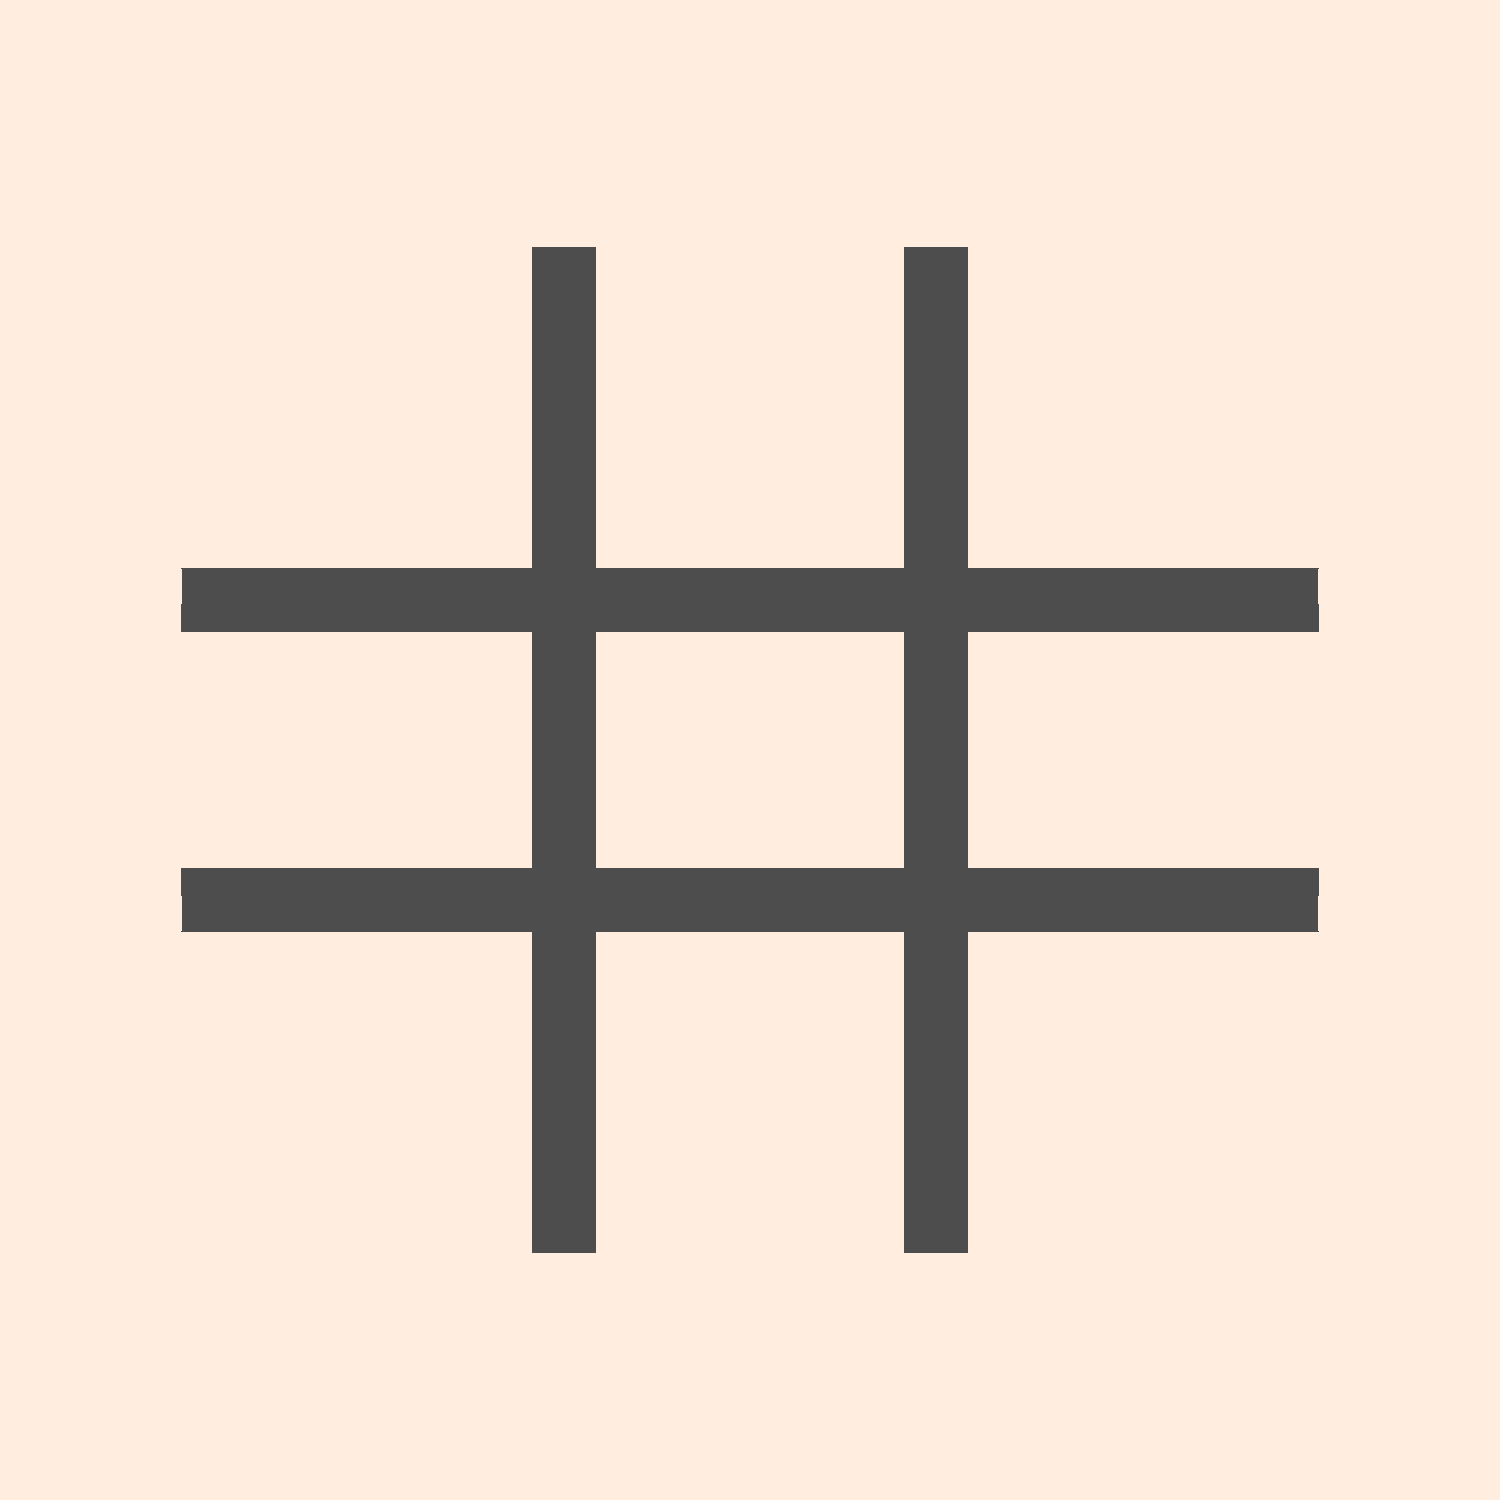
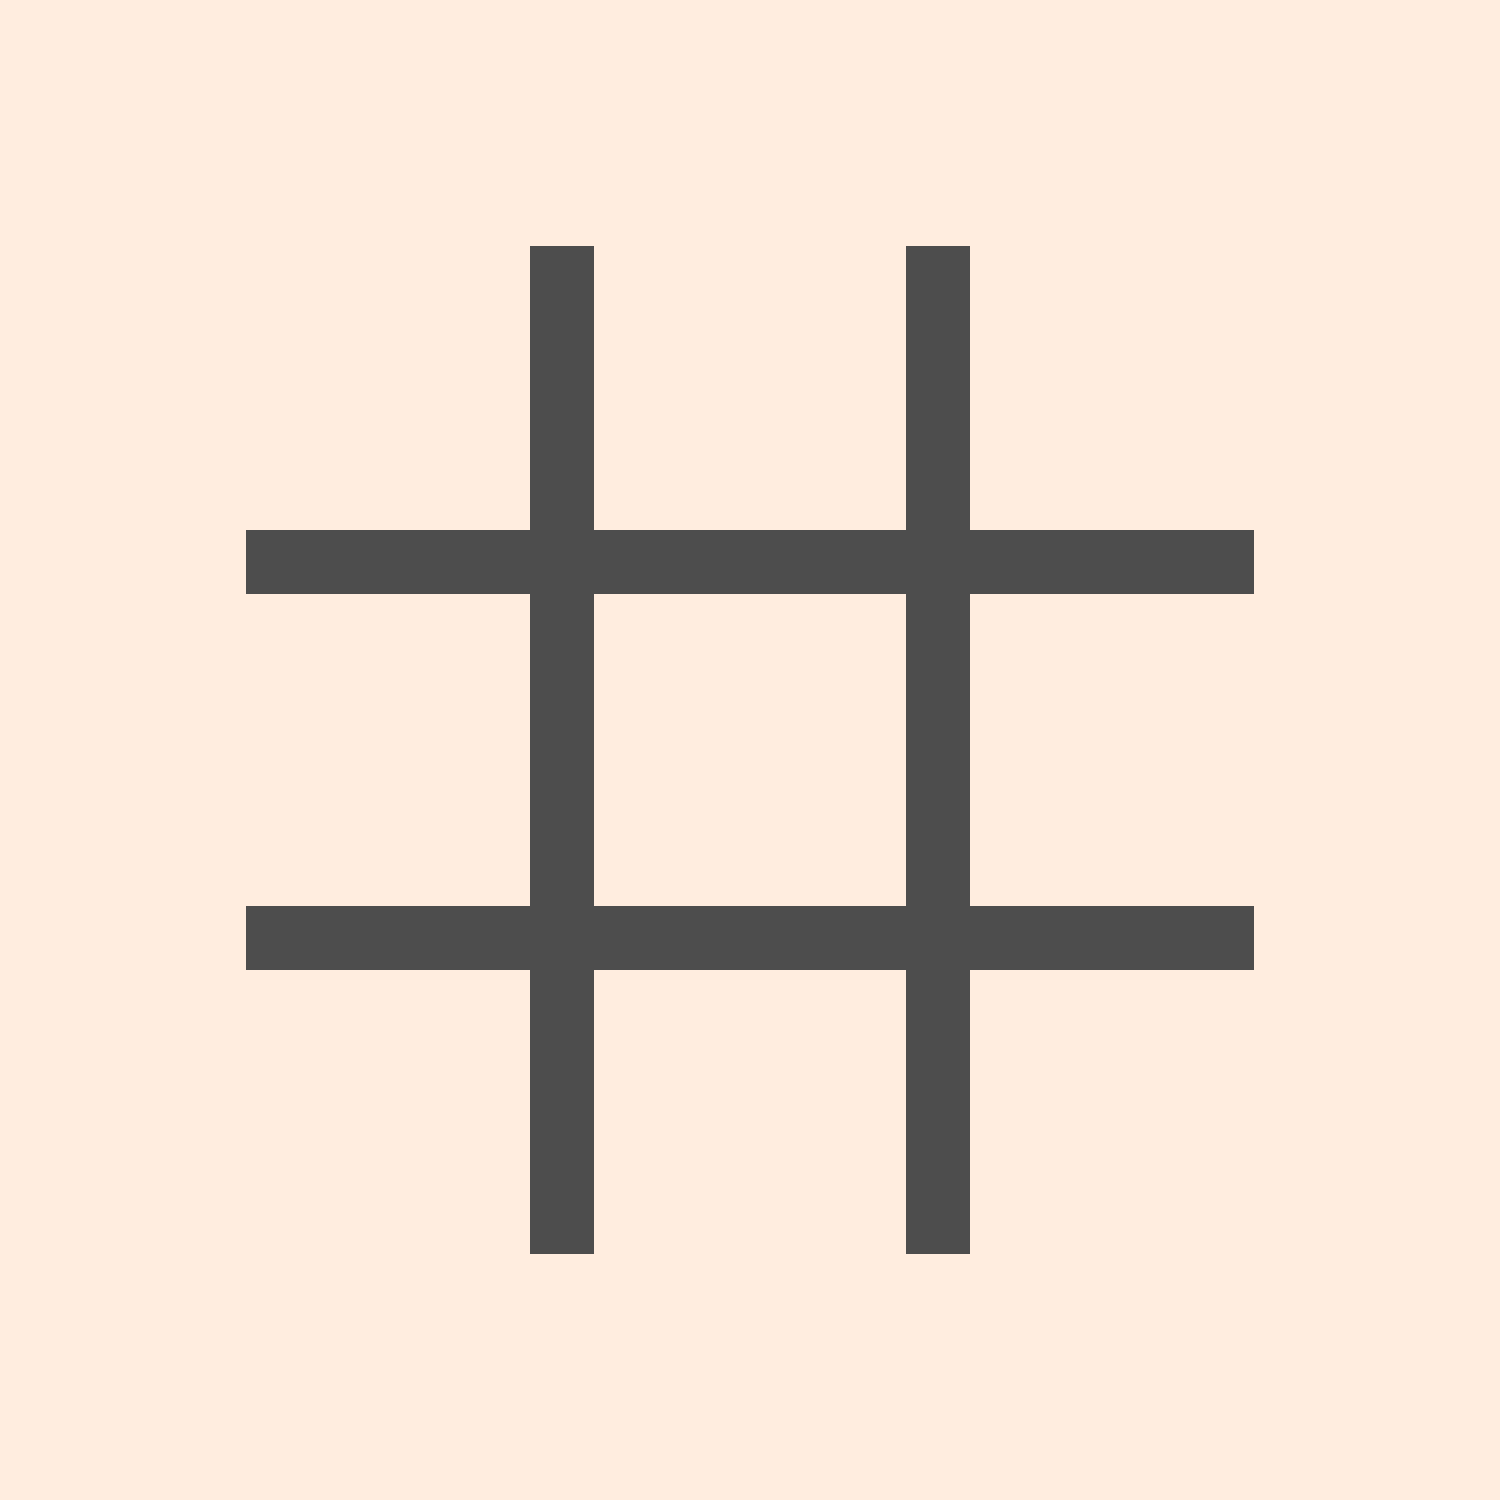
c

diff --git a/Assets/Script/Validation.cs b/Assets/Script/Validation.cs
@@ -33,37 +33,37 @@ public static class Validation
         //columns
         if (matrix[0, 0] && matrix[0, 1] && matrix[0, 2])
         {
-            trisPoints[0] = new Vector2(0, -0.25f);
-            trisPoints[1] = new Vector2(0, 2.25f);
+            trisPoints[0] = new Vector2(0, 2.25f);
+            trisPoints[1] = new Vector2(0, -0.25f);
             return trisPoints;
         }
 
         if (matrix[1, 0] && matrix[1, 1] && matrix[1, 2])
         {
-            trisPoints[0] = new Vector2(1, -0.25f);
-            trisPoints[1] = new Vector2(1, 2.25f);
+            trisPoints[0] = new Vector2(1, 2.25f);
+            trisPoints[1] = new Vector2(1, -0.25f);
             return trisPoints;
         }
 
         if (matrix[2, 0] && matrix[2, 1] && matrix[2, 2])
         {
-            trisPoints[0] = new Vector2(2, -0.25f);
-            trisPoints[1] = new Vector2(2, 2.25f);
+            trisPoints[0] = new Vector2(2, 2.25f);
+            trisPoints[1] = new Vector2(2, -0.25f);
             return trisPoints;
         }
 
         //Diagonals
         if (matrix[0, 0] && matrix[1, 1] && matrix[2, 2])
         {
-            trisPoints[0] = new Vector2(-0.25f, -0.25f);
-            trisPoints[1] = new Vector2(2.25f, 2.25f);
+            trisPoints[0] = new Vector2(2.25f, 2.25f);
+            trisPoints[1] = new Vector2(-0.25f, -0.25f);
             return trisPoints;
         }
 
         if (matrix[2, 0] && matrix[1, 1] && matrix[0, 2])
         {
-            trisPoints[0] = new Vector2(2.25f, -0.25f);
-            trisPoints[1] = new Vector2(-0.25f, 2.25f);
+            trisPoints[0] = new Vector2(-0.25f, 2.25f);
+            trisPoints[1] = new Vector2(2.25f, -0.25f);
             return trisPoints;
         }
 

diff --git a/Assets/Script/Board.cs b/Assets/Script/Board.cs
@@ -85,12 +85,33 @@ public class Board : MonoBehaviour
         Vector2 endPoint = linePoints[1];
 
         LineRenderer lineRenderer = gameObject.AddComponent<LineRenderer>();
-        Color myColor = new Color(0.3f, 0.3f, 0.3f, 0.8f);
+        Color myColor = new Color(0.3f, 0.3f, 0.3f);
         lineRenderer.material = lineMaterial;
         lineRenderer.startColor = myColor;
         lineRenderer.endColor = myColor;
-        lineRenderer.startWidth = 0.1f;
+        lineRenderer.startWidth = 0.05f;
+        lineRenderer.numCornerVertices = 10;
+        lineRenderer.numCapVertices = 10;
         lineRenderer.SetPosition(0, startPoint);
         lineRenderer.SetPosition(1, endPoint);
+
+        StartCoroutine(AnimateLine(lineRenderer));
+    }
+
+    IEnumerator AnimateLine(LineRenderer line)
+    {
+        float startTime = Time.time, animationDuration = 0.4f;
+
+        Vector2 startPoint = line.GetPosition(0);
+        Vector2 endPoint = line.GetPosition(1);
+
+        Vector2 pos = startPoint;
+        while (pos != endPoint)
+        {
+            float t = (Time.time - startTime) / animationDuration;
+            pos = Vector2.Lerp(startPoint, endPoint, t);
+            line.SetPosition(1, pos);
+            yield return null;
+        }
     }
 }
